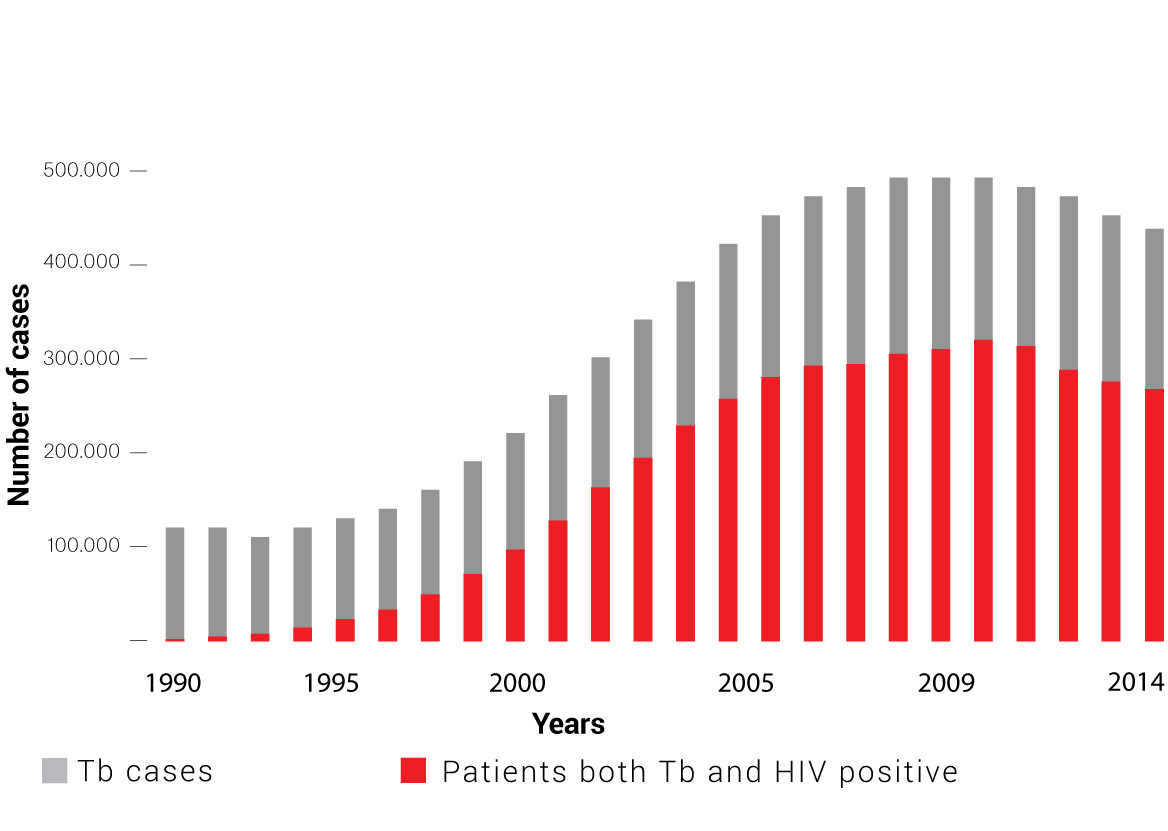
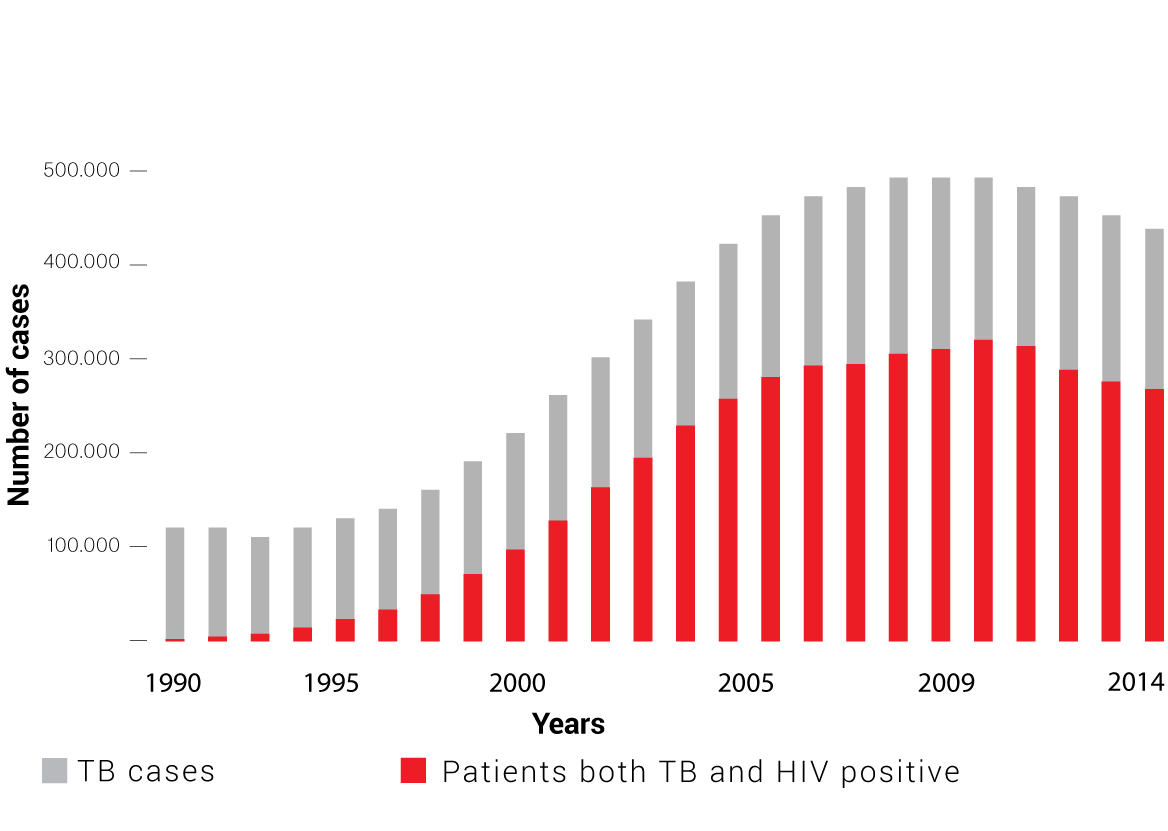
afas

Changed region(s): [[0.1233, 0.2106, 1.0, 0.7822], [0.5856, 0.9025, 0.8322, 0.9627], [0.0925, 0.9025, 0.1849, 0.9627]]

diff --git a/en/index.html b/en/index.html
@@ -4,7 +4,7 @@
 <head>
     <meta charset="utf-8" />
     <meta name="viewport" content="width=device-width, initial-scale=1.0" />
-    <title>Invisible Killer</title>
+    <title>Newsweek - Invisible Killer</title>
     <link rel="stylesheet" href="css/font/fonts.css" />
     <link rel="stylesheet" href="css/foundation.css" />
     <link rel="stylesheet" href="css/style.css" />
@@ -59,12 +59,11 @@
 
 
     <div class="row">
-        <div class="medium-9 columns didascalie space-top">
+        <div class="medium-10 columns didascalie space-top">
             <h4>Invisible Killer</h4>
             <br>
-            <h2>Behind the mask:</h2>
-            <h2>South Africa's struggle<br>
-against Tuberculosis</h2>
+            <h2>The Deadliest Disease You’ve Never Heard Of</h2>
+            <h4>A bacterial infection is killing millions, and growing stronger by the day. So why aren’t we rushing to stop it?</h4>
             <hr>
             <p>Text and Photography <strong>Tomaso Clavarino</strong></p>
             <br />
@@ -83,7 +82,8 @@ against Tuberculosis</h2>
                 </p>
         </div>
         <div class="medium-5 columns space">
-            <img src="img/text_15_mondo.jpg">
+            <img class="hide-for-small" src="img/text_15_mondo.jpg">
+            <img class="show-for-small-only" src="img/text_15_mondo_mobile.jpg">
         </div>
     </div>
 
@@ -119,15 +119,15 @@ against Tuberculosis</h2>
         <br/>
         <div class="medium-5 columns">
             <img src="img/tb_img_01.jpg">
-            <h6>Chanté Snyman, Tb patient</h6>
-            <p>Gugulethu township, Cape Town</p>
+            <h6>Chanté Snyman, TB patient</h6>
+            <p>Gugulethu Township, Cape Town</p>
 
 
         </div>
         <div class="medium-5 columns end">
             <img src="img/tb_img_02.jpg">
-            <h6>Inside a shack</h6>
-            <p>Gugulethu township, Cape Town</p>
+            <h6>Inside a local home</h6>
+            <p>Gugulethu Township, Cape Town</p>
         </div>
     </div>
     <br />
@@ -135,7 +135,7 @@ against Tuberculosis</h2>
     <div class="row didascalie">
         <div class="medium-10 columns">
             <img src="img/tb_img_03.jpg">
-            <h6>Moses Michize, MDR-Tb and HIV positive</h6>
+            <h6>Moses Michize, MDR-TB and HIV positive</h6>
             <p>Clare Estates informal settlement, Durban</p>
         </div>
     </div>
@@ -144,8 +144,8 @@ against Tuberculosis</h2>
     <div class="row">
         <div class="medium-12 columns title-header space">
             <h3>
-                Tuberculosis incidence in the world</h3>
-            <p>Number of cases per 100,000 inhabitants in 70 countries with the highest density</p>
+                Tuberculosis incidence worldwide</h3>
+            <p>Number of cases per 100,000 inhabitants in the 70 countries with the highest density</p>
             <hr>
 
             <img src="img/graph_mondiale.jpg">
@@ -166,15 +166,15 @@ against Tuberculosis</h2>
 
     <div class="row">
         <div class="medium-9 columns end title-header">
-            <h3>Death rate</h3>
-            <p>Click on the gray rectangles to see the death rate of the various declinations of Tuberculosis</p>
+            <h3>Death Rate</h3>
+            <p>Click on the gray rectangles to see the death rate of the various forms of tuberculosis</p>
             <hr>
         </div>
     </div>
     <div class="row">
         <div class="large-3 columns">
             <h6>TB</h6>
-            <div data-typetb="common Tuberculosis (Tb or DS-Tb)" data-perctb="85%" class="box"><img src="img/box-03.jpg"></div>
+            <div data-typetb="common tuberculosis (TB)" data-perctb="85%" class="box"><img src="img/box-03.jpg"></div>
         </div>
         <div class="large-3 columns">
             <h6>MDR-TB</h6>
@@ -188,7 +188,7 @@ against Tuberculosis</h2>
         <br />
         <br />
         <div class="large-10 columns result-description">
-            <p id="description">A patient suffering from <span id="type">common Tuberculosis (Tb or DS-Tb)</span> has <span id="perc">45%</span> chance of surviving
+            <p id="description">A patient suffering from <span id="type">common Tuberculosis (Tb or DS-Tb)</span> has a <span id="perc">45%</span> chance of survival.
                 <br>The same chance that you have to click on a red square.</p>
 
             <center>
@@ -210,7 +210,7 @@ against Tuberculosis</h2>
 
             <img src="img/tb_img_laboratory.jpg">
             <h6>Bacteriological analysis</h6>
-            <p>In Task Applied Science laboratories
+            <p>In the Task Applied Science laboratories
                 <br>in Cape Town</p>
             <hr>
 
@@ -266,7 +266,7 @@ against Tuberculosis</h2>
         </div>
 
         <div class="medium-6 columns title-header space">
-            <h3>Co-infection Tb-HIV</h3>
+            <h3>HIV and TB Co-infection in South AfricaV</h3>
 
             <hr>
 
@@ -274,7 +274,7 @@ against Tuberculosis</h2>
             <img src="img/graph_tb_hiv_01.png">
             <hr>
 
-            <h5>Co-infected patients mortality rate</h5>
+            <h5>Mortality Rates</h5>
             <img src="img/graph_tb_hiv_02.png">
 
         </div>
@@ -288,32 +288,32 @@ against Tuberculosis</h2>
     <div class="gray-bg space-p">
         <div class="row">
             <div class="medium-12 columns">
-                <h3>Stories</h3>
+                <h3>Testimonianze</h3>
                 <hr>
             </div>
             <ul class="small-block-grid-5 btn-group" data-toggle="buttons-radio">
-                <li id="btn-post" class="overlay-fade-in image-wrapper btn active-section" data-target="interview-01_container">
+                <li id="btn-post iframeRefresher" class="overlay-fade-in image-wrapper btn active-section" data-target="interview-01_container" data-videosrc="http://player.vimeo.com/video/144068611?api=1">
                     <img src="img/profile_dalene.jpg" />
                     <div class="image-overlay-content">
                         <h2>Dalene Von Delft</h2>
                     </div>
                 </li>
 
-                <li id="btn-game" class="overlay-fade-in image-wrapper btn btn btn-primary" data-target="interview-02_container">
+                <li id="btn-game" class="overlay-fade-in image-wrapper btn btn btn-primary" data-target="interview-02_container" data-videosrc="http://player.vimeo.com/video/144071898?api=1">
                     <img src="img/profile_pumeza.jpg" />
                     <div class="image-overlay-content">
                         <h2>Phumeza Tisile</h2>
                     </div>
                 </li>
 
-                <li id="btn-video" class="overlay-fade-in image-wrapper btn" data-target="interview-03_container">
+                <li id="btn-video" class="overlay-fade-in image-wrapper btn" data-target="interview-03_container" data-videosrc="http://player.vimeo.com/video/144068613?api=1">
                     <img src="img/profile_goodman.jpg" />
                     <div class="image-overlay-content">
                         <h2>Goodman Makanta</h2>
                     </div>
                 </li>
 
-                <li id="btn-giveaway" class="overlay-fade-in image-wrapper btn" data-target="interview-04_container">
+                <li id="btn-giveaway" class="overlay-fade-in image-wrapper btn" data-target="interview-04_container" data-videosrc="http://player.vimeo.com/video/144071904?api=1">
 
                     <img src="img/profile_msf.jpg" />
                     <div class="image-overlay-content">
@@ -322,7 +322,7 @@ against Tuberculosis</h2>
 
                 </li>
 
-                <li id="btn-giveaway" class="overlay-fade-in image-wrapper btn" data-target="interview-05_container">
+                <li id="btn-giveaway" class="overlay-fade-in image-wrapper btn" data-target="interview-05_container" data-videosrc="http://player.vimeo.com/video/144071901?api=1">
 
                     <img src="img/profile_green.jpg" />
                     <div class="image-overlay-content">
@@ -339,42 +339,42 @@ against Tuberculosis</h2>
 
                 <div class="medium-8 columns">
                     <div class="vimeoWrap flex-video widescreen vimeo">
-                        <iframe src="http://player.vimeo.com/video/144068611?api=1" width="500" height="280" frameborder="0" webkitAllowFullScreen mozallowfullscreen allowFullScreen></iframe>
+                        <iframe class="videoreload" src="http://player.vimeo.com/video/144068611?api=1" width="500" height="280" frameborder="0" webkitAllowFullScreen mozallowfullscreen allowFullScreen></iframe>
                     </div>
                 </div>
                 <div class="medium-4 columns">
                     <h5>Dalene Von Delft</h5>
-                    <span class="didascalie"><p>33 years old, medical doctor</p></span>
+                    <span class="didascalie"><p>33 years old</p></span>
                     <br />
-                    <p>Dalene caught MDR-TB. She was one of the first white people to get infected. After defeating it, she created TB Proof, an NGO fighting the stigma against TB positive people</p>
+                    <p>Dalene, a doctor, was diagnosed with MDR-TB, but was able to get effective treatment. After recovering, she started TB Proof, an NGO fighting the stigma against TB.</p>
                 </div>
             </div>
 
             <div class="row container hide-01" id="interview-02_container">
                 <div class="medium-8 columns">
                     <div class="vimeoWrap flex-video widescreen vimeo">
-                        <iframe src="http://player.vimeo.com/video/144071898?api=1" width="400" height="225" frameborder="0" webkitAllowFullScreen mozallowfullscreen allowFullScreen></iframe>
+                        <iframe class="videoreload" src="http://player.vimeo.com/video/144071898?api=1" width="400" height="225" frameborder="0" webkitAllowFullScreen mozallowfullscreen allowFullScreen></iframe>
                     </div>
                 </div>
                 <div class="medium-4 columns">
                     <h5>Phumeza Tisile</h5>
                     <span class="didascalie"><p>25 years old</p></span>
                     <br />
-                    <p>Phumeza was XDR-TB positive. She lost her hearing for five years because of the drugs she had to take for her treatment. She can finally hear again now, thanks to two cochlear implants. She has also become one of the representatives for the South African fight against TB</p>
+                    <p>Phumeza was XDR-TB positive. She lost her hearing for five years because of the drugs she took to treat the condition. She can finally hear again now, thanks to two cochlear implants. </p>
                 </div>
             </div>
 
             <div class="row container hide-01" id="interview-03_container">
                 <div class="medium-8 columns">
                     <div class="vimeoWrap flex-video widescreen vimeo">
-                        <iframe src="http://player.vimeo.com/video/144068613?api=1" width="400" height="225" frameborder="0" webkitAllowFullScreen mozallowfullscreen allowFullScreen></iframe>
+                        <iframe class="videoreload" src="http://player.vimeo.com/video/144068613?api=1" width="400" height="225" frameborder="0" webkitAllowFullScreen mozallowfullscreen allowFullScreen></iframe>
                     </div>
                 </div>
                 <div class="medium-4 columns">
                     <h5>Goodman Makanta</h5>
                     <span class="didascalie"><p>30 years old</p></span>
                     <br />
-                    <p>Goodman was found XDR-TB positive in 2014, he lives in a wood and tin shack in Kayelitsha township, just outside Cape Town
+                    <p>Goodman was diagnosed with XDR-TB in 2014. He currently lives in a wood-and-tin shack in Kayelitsha township, just outside Cape Town.
                     </p>
                 </div>
             </div>
@@ -382,28 +382,28 @@ against Tuberculosis</h2>
             <div class="row container hide-01" id="interview-04_container">
                 <div class="medium-8 columns">
                     <div class="vimeoWrap flex-video widescreen vimeo">
-                        <iframe src="http://player.vimeo.com/video/144071904?api=1" width="400" height="225" frameborder="0" webkitAllowFullScreen mozallowfullscreen allowFullScreen></iframe>
+                        <iframe Name="vid4" src="http://player.vimeo.com/video/144071904?api=1" width="400" height="225" frameborder="0" webkitAllowFullScreen mozallowfullscreen allowFullScreen></iframe>
                     </div>
                 </div>
                 <div class="medium-4 columns">
                     <h5>Busisiwe Beko</h5>
                     <span class="didascalie"><p>34 years old</p></span>
                     <br />
-                    <p> Busisiwe was diagnosed HIV and MDR-TB positive in 2007, while she was pregnant. Othandwayo, her second daughter, was born MDR-TB positive. Busisiwe now collaborates with MSF in Kayelitsha township, and runs an informative radio programme on TB</p>
+                    <p> Busisiwe was diagnosed with both HIV and MDR-TB in 2007, while she was pregnant. Othandwayo, her second daughter, was born MDR-TB positive. Busisiwe now helps produce a radio program dedicated to spreading accurate information about TB.</p>
                 </div>
             </div>
 
             <div class="row container hide-01" id="interview-05_container">
                 <div class="medium-8 columns">
                     <div class="vimeoWrap flex-video widescreen vimeo">
-                        <iframe src="http://player.vimeo.com/video/144071901?api=1" width="400" height="225" frameborder="0" webkitAllowFullScreen mozallowfullscreen allowFullScreen></iframe>
+                        <iframe Name="vid5" src="http://player.vimeo.com/video/144071901?api=1" width="400" height="225" frameborder="0" webkitAllowFullScreen mozallowfullscreen allowFullScreen></iframe>
                     </div>
                 </div>
                 <div class="medium-4 columns">
                     <h5>Edward Mokoena</h5>
                     <span class="didascalie"><p>35 years old</p></span>
                     <br />
-                    <p>Edward lives in Gugulethu township, near Cape Town. He was diagnosed MDR-TB but doctors gave him the wrong medication, so he suffered serious liver damage. He is better now, but because of the debilitating treatment, he can no longer work. He was the only one in his family who had a job</p>
+                    <p>Edward lives in Gugulethu township, near Cape Town. He was diagnosed MDR-TB but doctors gave him the wrong medication, so he suffered serious liver damage. He is better now, but because of the debilitating treatment, he can no longer work. </p>
                 </div>
             </div>
         </div>
@@ -421,7 +421,7 @@ against Tuberculosis</h2>
     <div class="row didascalie">
         <div class="large-6 columns">
             <img src="img/tb_img_mine_01.jpg">
-            <h6>A gallery in a gold mine</h6>
+            <h6>A tunnel in a gold mine</h6>
             <p>Sybaie Goldmines, Carletonville</p>
         </div>
         <div class="large-6 columns">
@@ -454,8 +454,8 @@ against Tuberculosis</h2>
             </p>
         </div>
         <div class="medium-6 columns title-header space">
-            <h3>Collapse of fundings</h3>
-            <p>Trends in private investments in research on Tuberculosis</p>
+            <h3>Funding Collapse</h3>
+            <p>Trends in private investment into research on tuberculosis</p>
             <hr>
             <img src="img/graph_finanziamenti.jpg">
 
@@ -465,7 +465,7 @@ against Tuberculosis</h2>
     <div class="row didascalie">
         <div class="medium-12 columns">
             <img src="img/tb_img_04.jpg">
-            <h6>Ivan Ross, Tb patient</h6>
+            <h6>Ivan Ross, TB patient</h6>
             <p>Hout Bay informal settlement, Cape Town
             </p>
             <br>
@@ -482,18 +482,18 @@ against Tuberculosis</h2>
             </div>
             <div class="medium-4 columns">
 
-                <p>Text e photography:<b>Tomaso Clavarino</b>
-                    <br> Design and video:<b>Isacco Chiaf</b>
-                    <br> Video Editor:<b>Luca Vigliani</b>
-                    <br> Musics:<b>Michele Sarda e Loris Spanu</b>
-                    <br> Translations:<b> Fay R. Ledvinka</b></p>
+                <p>Text and photography: <b>Tomaso Clavarino</b>
+                    <br> Design and video: <b>Isacco Chiaf</b>
+                    <br> Video Editor: <b>Luca Vigliani</b>
+                    <br> Music: <b>Michele Sarda e Loris Spanu</b>
+                    <br> Translations: <b>Fay R. Ledvinka</b></p>
             </div>
             <div class="medium-4 columns">
                 <p>This investigative report was conducted with the support of the "Innovation in Development Reporting Grant" program of the European Journalism Centre (EJC), financed by the Bill and Melinda Gates Foundation.
             </div>
             <div class="medium-4 columns">
                 <p>Project released under
-                    <br>creative common: cc-nc-by-sa
+                    <br> creative commons licensing: cc-nc-by-sa
                     <br><img src="img/cc.png"></p>
 
             </div>

diff --git a/en/js/app.js b/en/js/app.js
@@ -31,6 +31,18 @@
          $(".container").not(target).addClass("hide-01");
          $(target).removeClass("hide-01");
 
+         var $frame = $(target).find("iframe");
+         var allframes = $(".main-video-box").find("iframe");
+         // saves the current iframe source
+         var vidsrc = $(this).data('videosrc');
+
+
+         // sets the source to nothing, stopping the video
+         allframes.attr('src', '');
+
+         // sets it back to the correct link so that it reloads immediately on the next window open
+         $frame.attr('src', vidsrc);
+
 
 
      });
